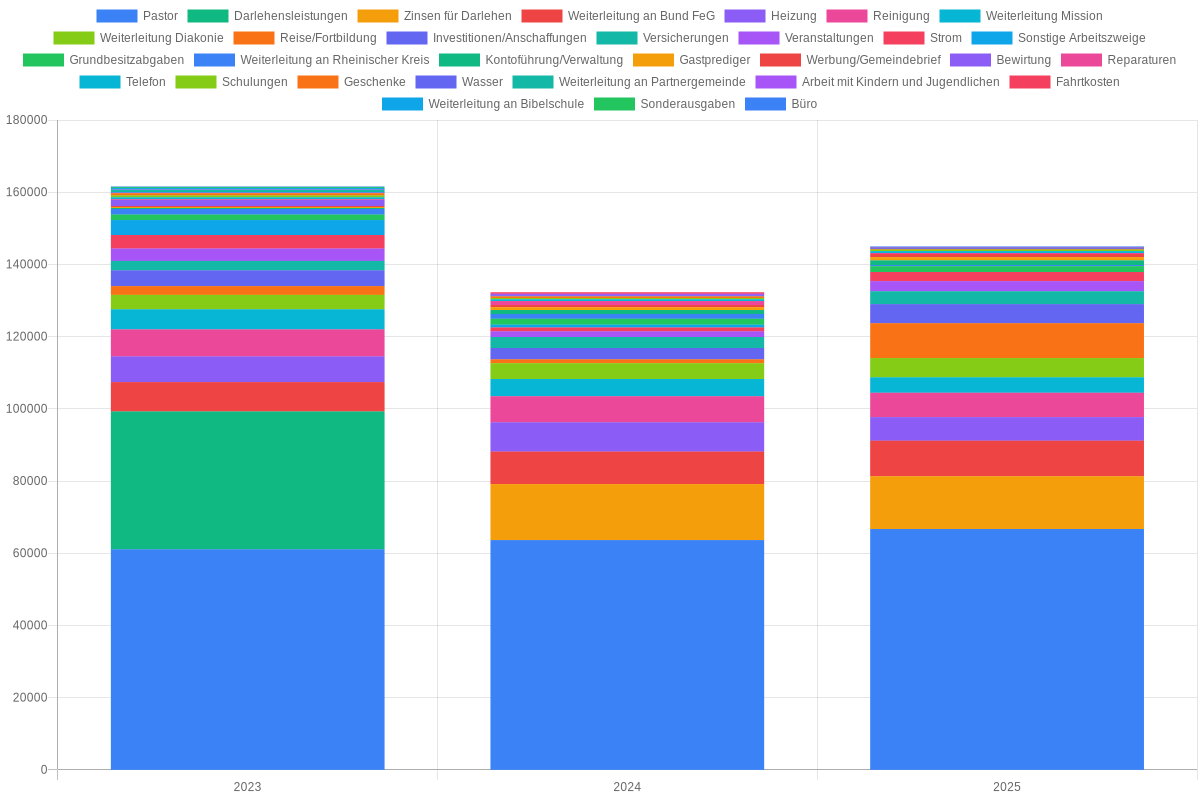
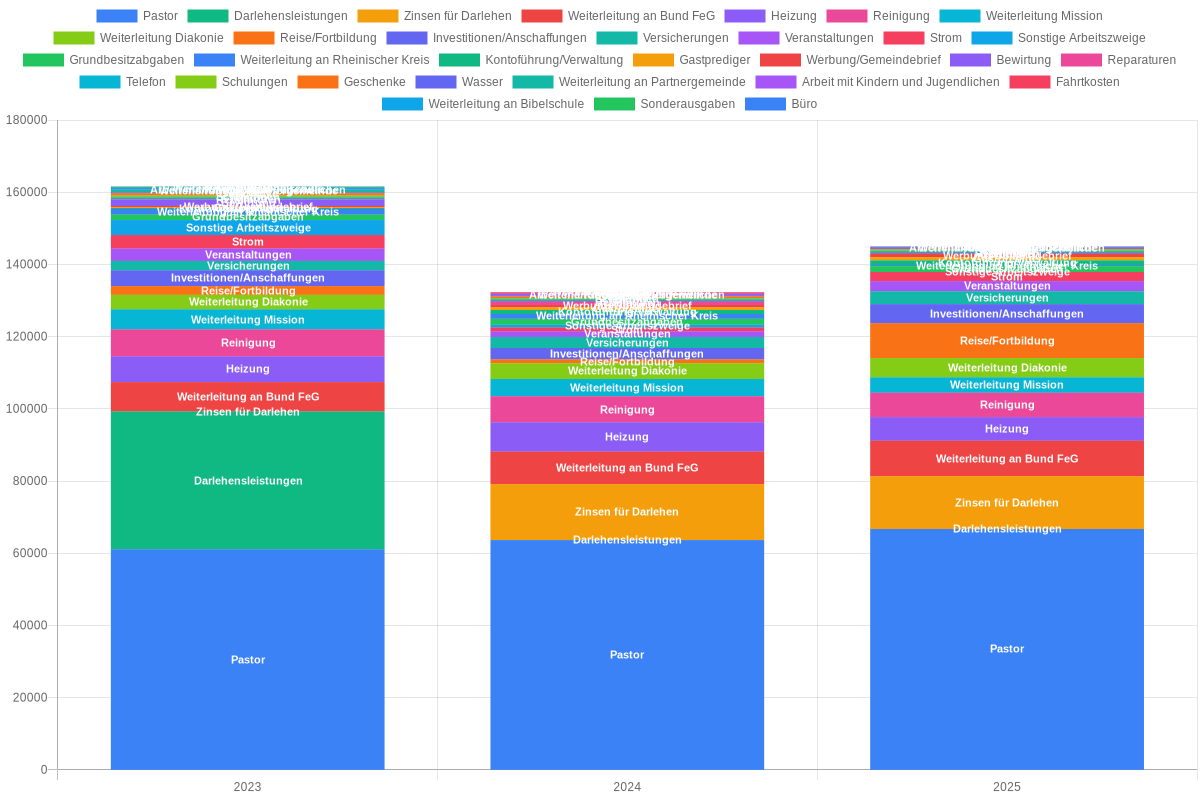
feat: Label bei Ein- und Ausgaben sind jetzt auch in den Balken

diff --git a/generate-presentation.js b/generate-presentation.js
@@ -712,7 +712,24 @@ async function createIncomeChart(profitLossReports, years) {
             }
           }
         },
+        datalabels: {
+          color: '#ffffff',
+          font: {
+            weight: 'bold',
+            size: 10
+          },
+          formatter: function(value, context) {
+            return context.dataset.label;
+          },
+          anchor: 'center',
+          align: 'center',
+          display: true,
+          clip: false,
+          clamp: false
+        },
         tooltip: {
+          mode: 'index',
+          intersect: false,
           callbacks: {
             label: function(context) {
               const value = context.parsed.y;
@@ -751,12 +768,6 @@ async function createIncomeChart(profitLossReports, years) {
           }
         }
       },
-      plugins: {
-        tooltip: {
-          mode: 'index',
-          intersect: false
-        }
-      },
       responsive: false,
       maintainAspectRatio: false
     }
@@ -766,7 +777,7 @@ async function createIncomeChart(profitLossReports, years) {
   const chart = new QuickChart();
   chart.setConfig(configuration);
   chart.setWidth(1200);
-  chart.setHeight(800);
+  chart.setHeight(1000);
   chart.setFormat('png');
   chart.setBackgroundColor('white');
   
@@ -876,6 +887,19 @@ async function createExpensesChart(profitLossReports, years) {
               size: 10
             }
           }
+        },
+        datalabels: {
+          color: '#ffffff',
+          font: {
+            weight: 'bold',
+            size: 11
+          },
+          formatter: function(value, context) {
+            return context.dataset.label;
+          },
+          anchor: 'center',
+          align: 'center',
+          display: true
         },
         tooltip: {
           callbacks: {
